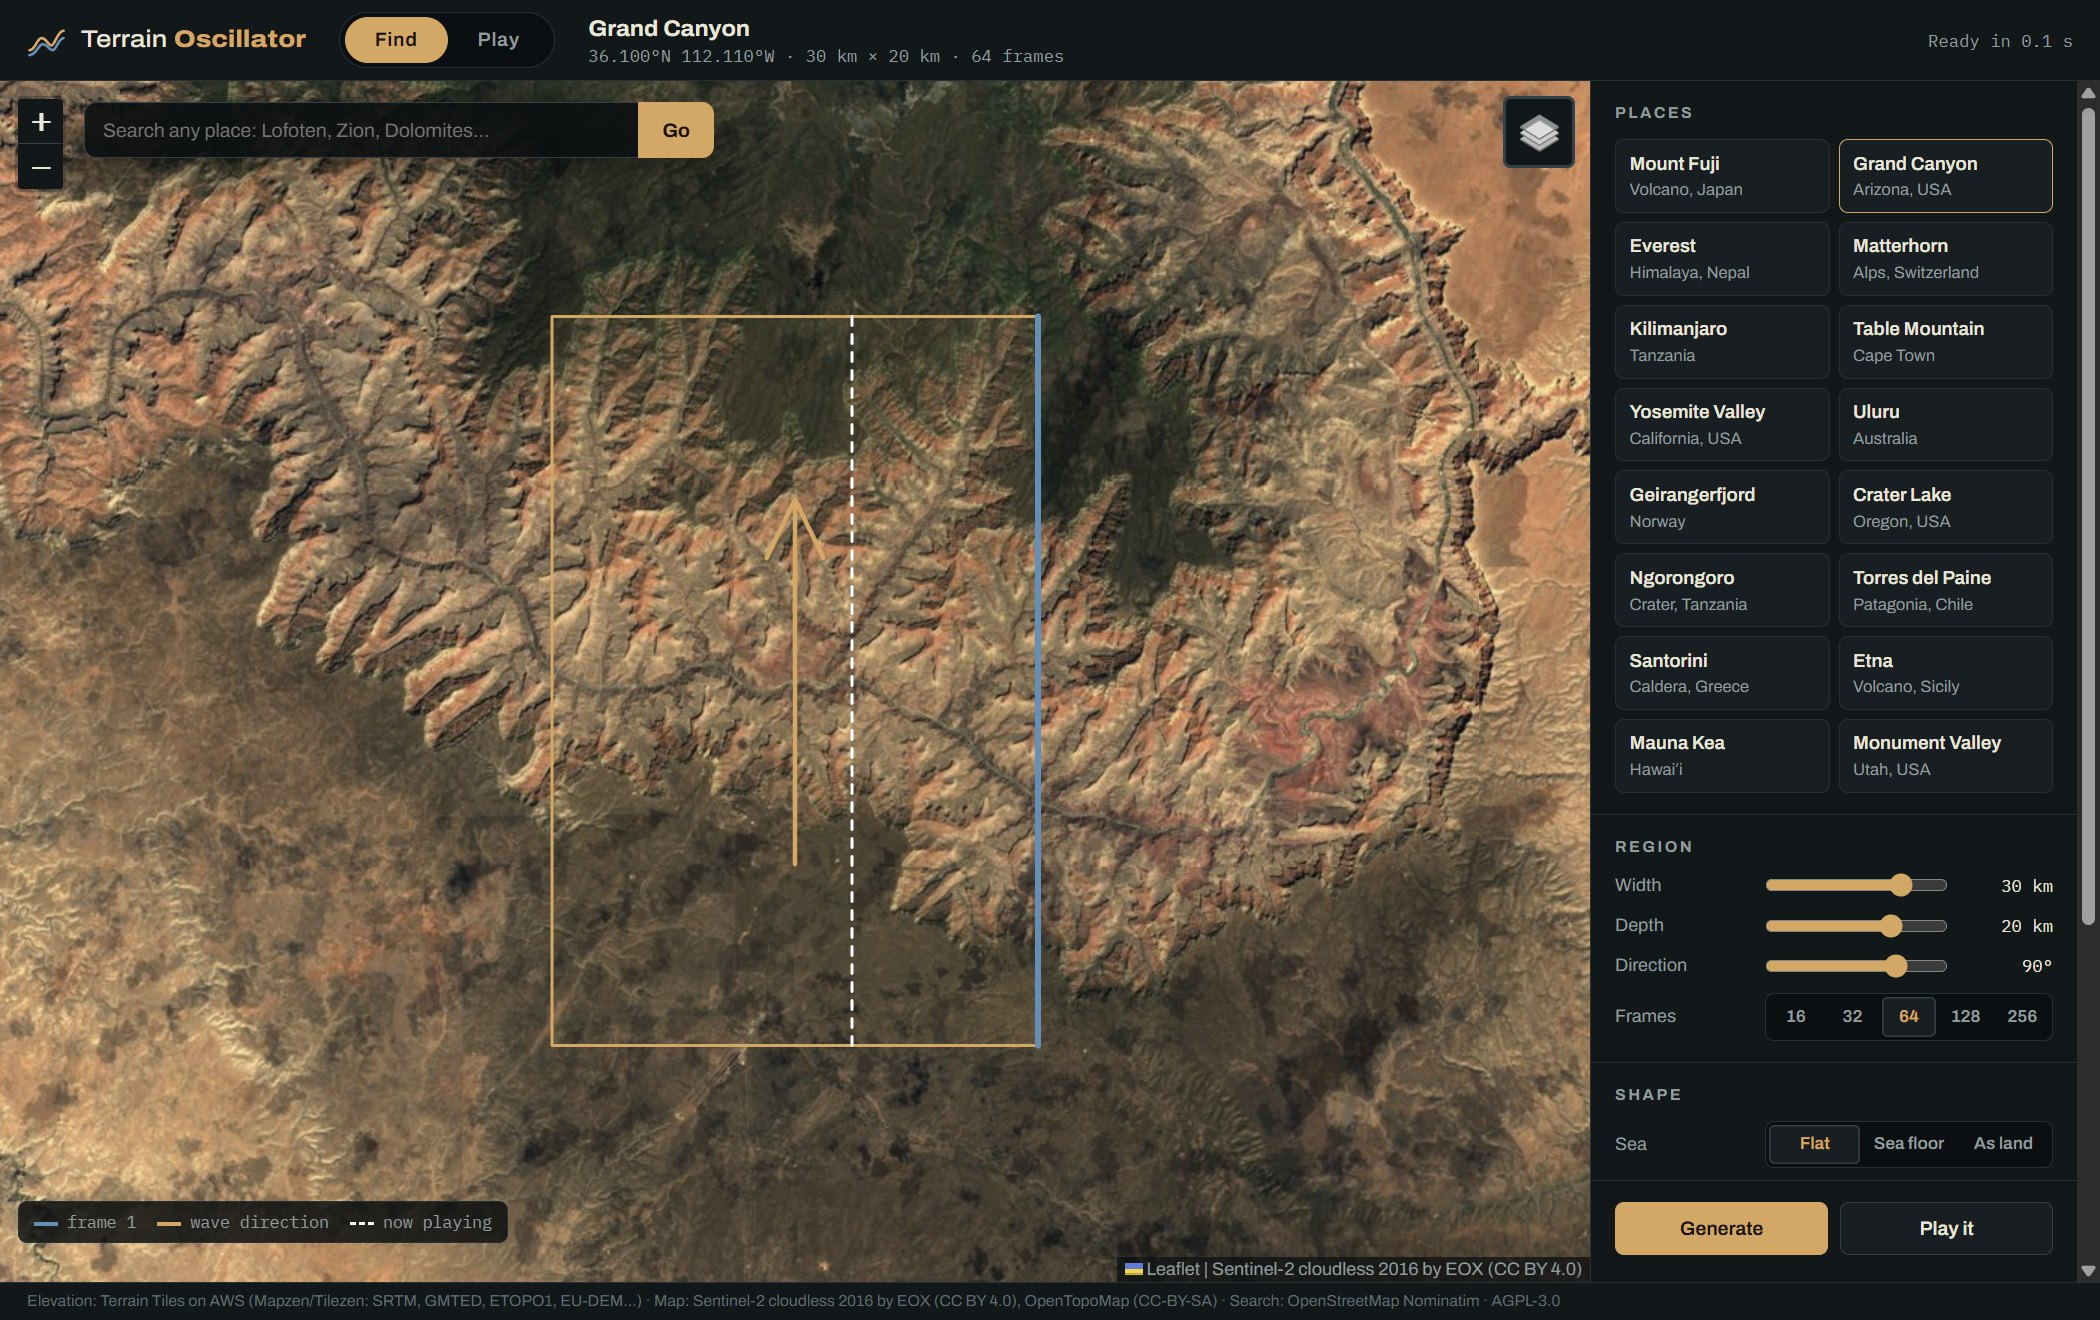
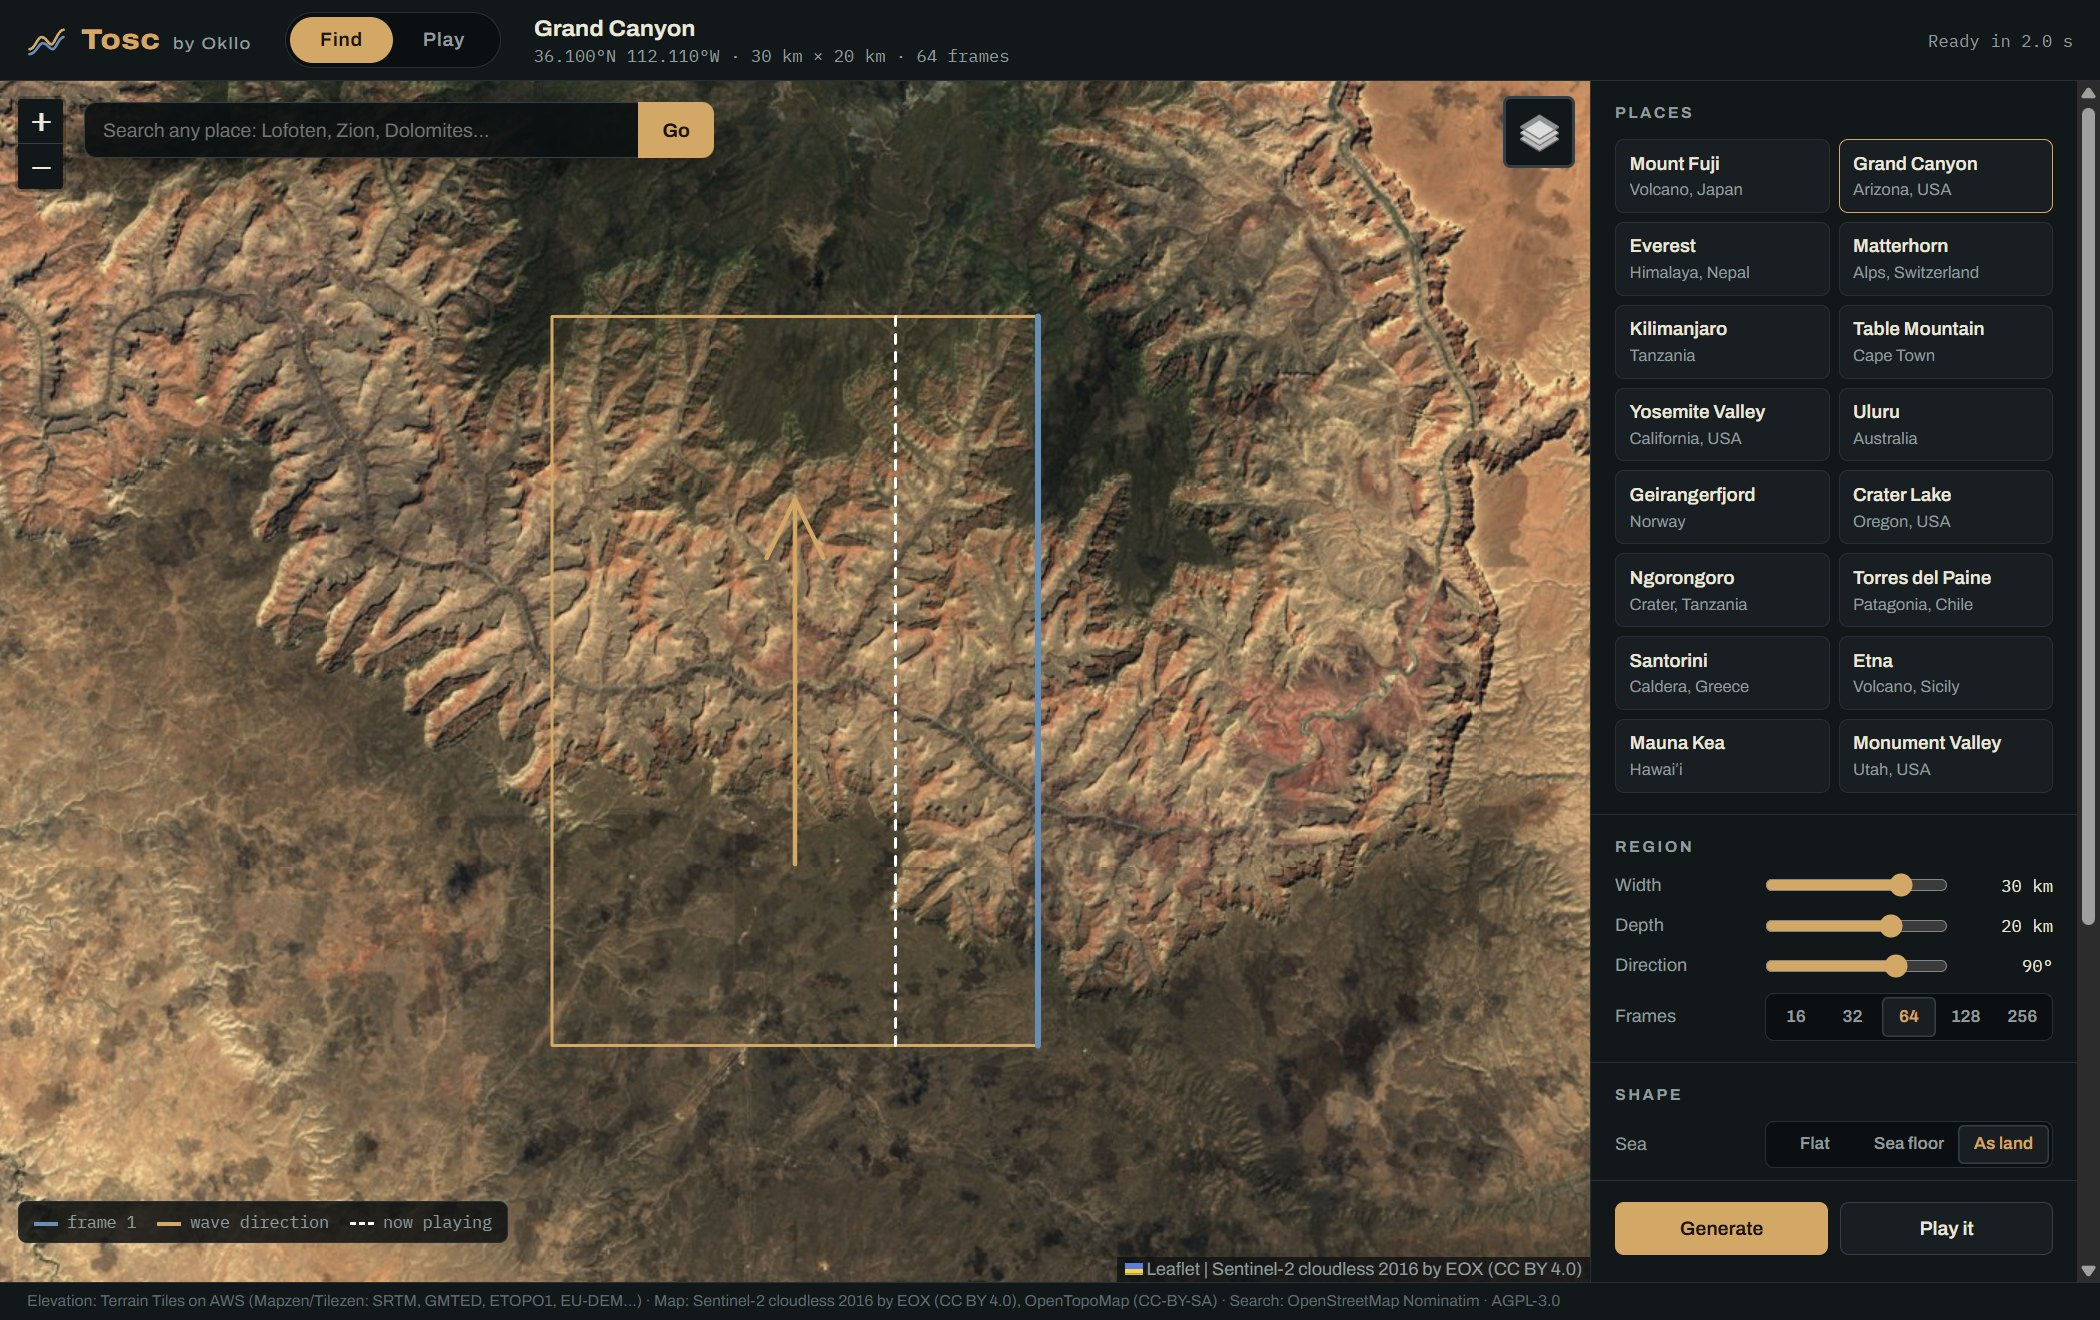
Rename to Tosc; fix macOS CI runner
- Product name Tosc (was Terrain Oscillator): Tosc.vst3 / Tosc.clap /
  Tosc.component / Tosc.exe, bundle and CLAP id com.okllo.tosc,
  CMake targets Tosc / ToscData; header reads "Tosc by Okllo"
- Repository renamed to inlxs/tosc; README, install notes and
  release text updated; new screenshots
- CI: macos-14 runner image is no longer supported, use macos-latest

diff --git a/ui/style.css b/ui/style.css
@@ -33,7 +33,8 @@ button, input { font: inherit; color: inherit; }
 .mark { width: 26px; height: 26px; fill: none; stroke: var(--sand); stroke-width: 2.2; stroke-linecap: round; }
 .mark path + path { stroke: var(--sea); }
 .word { font-weight: 500; font-size: 16px; letter-spacing: 0.01em; font-stretch: 112%; }
-.word b { font-weight: 800; color: var(--sand); }
+.word b { font-weight: 800; color: var(--sand); font-size: 19px; letter-spacing: 0.02em; }
+.word small { font-size: 11px; color: var(--muted); font-weight: 500; letter-spacing: 0.08em; margin-left: 4px; }
 .tabs { display: flex; background: var(--bg); border: 1px solid var(--line); border-radius: 999px; padding: 3px; }
 .tabs button { border: 0; background: none; padding: 6px 20px; border-radius: 999px; color: var(--muted); font-weight: 600; letter-spacing: 0.04em; cursor: pointer; }
 .tabs button[aria-selected="true"] { background: var(--sand); color: var(--ink); }

diff --git a/ui/index.html b/ui/index.html
@@ -3,7 +3,7 @@
 <head>
 <meta charset="utf-8">
 <meta name="viewport" content="width=device-width, initial-scale=1">
-<title>Terrain Oscillator</title>
+<title>Tosc</title>
 <link rel="stylesheet" href="vendor/leaflet.css">
 <link rel="preconnect" href="https://fonts.googleapis.com">
 <link rel="preconnect" href="https://fonts.gstatic.com" crossorigin>
@@ -19,7 +19,7 @@
         <path d="M2 24 C7 24 8 14 12 14 S17 20 20 20 S25 8 30 8" />
         <path d="M2 28 C8 28 9 19 13 19 S18 24 21 24 S26 14 30 14" />
       </svg>
-      <span class="word">Terrain <b>Oscillator</b></span>
+      <span class="word"><b>Tosc</b> <small>by Okllo</small></span>
     </div>
     <nav class="tabs" role="tablist" aria-label="Mode">
       <button role="tab" id="tabFind" data-mode="find" aria-selected="true">Find</button>

diff --git a/ui/app.js b/ui/app.js
@@ -1,4 +1,4 @@
-// Terrain Oscillator UI - SPDX-License-Identifier: AGPL-3.0-or-later
+// Tosc UI - SPDX-License-Identifier: AGPL-3.0-or-later
 "use strict";
 
 const N = 2048;

diff --git a/src/PluginEditor.cpp b/src/PluginEditor.cpp
@@ -47,7 +47,7 @@ void TerrainEditor::resized() { web.setBounds (getLocalBounds()); }
 juce::WebBrowserComponent::Options TerrainEditor::makeOptions()
 {
     using Opts = juce::WebBrowserComponent::Options;
-    const auto dataDir = juce::File::getSpecialLocation (juce::File::tempDirectory).getChildFile ("TerrainOscillatorWebView");
+    const auto dataDir = juce::File::getSpecialLocation (juce::File::tempDirectory).getChildFile ("ToscWebView");
 
     return Opts{}
         .withBackend (Opts::Backend::webview2)
@@ -271,7 +271,7 @@ void TerrainEditor::fnSendToBitwig (const Args& a, Completion done)
     const bool centred = a[0].toString() == "ctr";
     const auto r = proc.getRelief();
     const auto docs = juce::File::getSpecialLocation (juce::File::userDocumentsDirectory);
-    const auto dir = docs.getChildFile ("Bitwig Studio").getChildFile ("Library").getChildFile ("Wavetables").getChildFile ("Terrain Oscillator");
+    const auto dir = docs.getChildFile ("Bitwig Studio").getChildFile ("Library").getChildFile ("Wavetables").getChildFile ("Tosc");
     if (! dir.createDirectory()) { done (juce::var()); return; }
     const auto f = dir.getChildFile (safeFileName (r.name) + (centred ? "_ctr_" : "_abs_") + juce::String (r.frames) + ".wt");
     const auto data = terrain::writeWT (r, centred);

diff --git a/src/WavetableBank.cpp b/src/WavetableBank.cpp
@@ -186,7 +186,7 @@ juce::MemoryBlock writeWAV (const Relief& r, bool centred)
     for (auto x : v) data.writeFloat (x);
 
     juce::MemoryOutputStream clm;
-    clm << "<!>2048 01000000 wavetable (Terrain Oscillator)";
+    clm << "<!>2048 01000000 wavetable (Tosc)";
     while (clm.getDataSize() < 48) clm.writeByte (0);
 
     juce::MemoryOutputStream out;

diff --git a/src/WavetableBank.h b/src/WavetableBank.h
@@ -1,4 +1,4 @@
-// Terrain Oscillator - band-limited wavetable bank built from a terrain "relief".
+// Tosc - band-limited wavetable bank built from a terrain "relief".
 // SPDX-License-Identifier: AGPL-3.0-or-later
 #pragma once
 

diff --git a/README.md b/README.md
@@ -1,9 +1,9 @@
-# Terrain Oscillator
+# Tosc
 
-**A wavetable synthesizer that plays real places.** Pick anywhere on Earth, and its terrain becomes the sound.
+**A terrain oscillator: a wavetable synthesizer that plays real places.** Pick anywhere on Earth, and its terrain becomes the sound.
 
-[![Build](https://github.com/inlxs/terrain-oscillator/actions/workflows/build.yml/badge.svg)](https://github.com/inlxs/terrain-oscillator/actions/workflows/build.yml)
-[![Latest release](https://img.shields.io/github/v/release/inlxs/terrain-oscillator?label=download)](https://github.com/inlxs/terrain-oscillator/releases/latest)
+[![Build](https://github.com/inlxs/tosc/actions/workflows/build.yml/badge.svg)](https://github.com/inlxs/tosc/actions/workflows/build.yml)
+[![Latest release](https://img.shields.io/github/v/release/inlxs/tosc?label=download)](https://github.com/inlxs/tosc/releases/latest)
 [![License: AGPL-3.0](https://img.shields.io/badge/license-AGPL--3.0-blue)](LICENSE)
 
 An [Okllo](https://okllo.com) instrument, made by inLXS. Standalone app, VST3, CLAP and AU (macOS).
@@ -24,17 +24,17 @@ a fjord each sound different because they *are* different.
 
 ## Download
 
-**[Get the latest release →](https://github.com/inlxs/terrain-oscillator/releases/latest)**
+**[Get the latest release →](https://github.com/inlxs/tosc/releases/latest)**
 
 | System | Download | Formats |
 |---|---|---|
-| Windows 10/11 (64-bit) | `TerrainOscillator-…-Windows.zip` | VST3, CLAP, Standalone |
-| macOS 11+ (Apple silicon and Intel) | `TerrainOscillator-…-macOS.zip` | AU, VST3, CLAP, Standalone |
-| Linux x86_64 | `TerrainOscillator-…-Linux.tar.gz` | VST3, CLAP, Standalone |
+| Windows 10/11 (64-bit) | `Tosc-…-Windows.zip` | VST3, CLAP, Standalone |
+| macOS 11+ (Apple silicon and Intel) | `Tosc-…-macOS.zip` | AU, VST3, CLAP, Standalone |
+| Linux x86_64 | `Tosc-…-Linux.tar.gz` | VST3, CLAP, Standalone |
 
 Each download has an `INSTALL.txt` that says where to copy the files. In short:
 
-- **Windows:** copy `Terrain Oscillator.vst3` to `C:\Program Files\Common Files\VST3` and `Terrain Oscillator.clap` to `C:\Program Files\Common Files\CLAP`.
+- **Windows:** copy `Tosc.vst3` to `C:\Program Files\Common Files\VST3` and `Tosc.clap` to `C:\Program Files\Common Files\CLAP`.
   The standalone `.exe` runs from anywhere. It isn't code-signed yet, so SmartScreen asks once: *More info → Run anyway*.
 - **macOS:** copy the plug-ins to `~/Library/Audio/Plug-Ins/` (`Components`, `VST3`, `CLAP`). The builds aren't notarised yet,
   so run the `xattr -dr com.apple.quarantine …` line from `INSTALL.txt` once after copying.
@@ -57,8 +57,8 @@ In your DAW it shows up under the maker **Okllo**. Use the CLAP in Bitwig and Re
 
 Windows, with Visual Studio 2022 (Build Tools or Community) and the C++ workload:
 
-    git clone --recurse-submodules https://github.com/inlxs/terrain-oscillator.git
-    cd terrain-oscillator
+    git clone --recurse-submodules https://github.com/inlxs/tosc.git
+    cd tosc
     build.bat
 
 macOS / Linux (see [the workflow](.github/workflows/build.yml) for the Linux packages):
@@ -66,7 +66,7 @@ macOS / Linux (see [the workflow](.github/workflows/build.yml) for the Linux pac
     cmake -S . -B build -G Ninja -DCMAKE_BUILD_TYPE=Release
     cmake --build build
 
-The results go to `build/TerrainOscillator_artefacts/Release/`. `RenderTest` renders a test phrase offline.
+The results go to `build/Tosc_artefacts/Release/`. `RenderTest` renders a test phrase offline.
 To work on the interface without rebuilding, set `TERRAIN_UI_DIR` to the `ui` folder. The app then loads the files from disk.
 
 Every push builds all three systems on GitHub Actions. Pushing a tag such as `v0.1.0` publishes a release with the downloads.

diff --git a/packaging/RELEASE.md b/packaging/RELEASE.md
@@ -1,11 +1,11 @@
-**Terrain Oscillator** turns real places into wavetables. Pick anywhere on Earth, and its terrain becomes the sound.
+**Tosc** turns real places into wavetables. Pick anywhere on Earth, and its terrain becomes the sound.
 
 ### Download
 | System | File | Formats |
 |---|---|---|
-| Windows 10/11 | `TerrainOscillator-…-Windows.zip` | VST3, CLAP, Standalone |
-| macOS 11+ (Apple silicon + Intel) | `TerrainOscillator-…-macOS.zip` | AU, VST3, CLAP, Standalone |
-| Linux x86_64 | `TerrainOscillator-…-Linux.tar.gz` | VST3, CLAP, Standalone |
+| Windows 10/11 | `Tosc-…-Windows.zip` | VST3, CLAP, Standalone |
+| macOS 11+ (Apple silicon + Intel) | `Tosc-…-macOS.zip` | AU, VST3, CLAP, Standalone |
+| Linux x86_64 | `Tosc-…-Linux.tar.gz` | VST3, CLAP, Standalone |
 
 Each download contains an `INSTALL.txt` with where to copy the files.
 macOS builds are not notarised yet: run the one-line `xattr` command from `INSTALL.txt` after copying.
